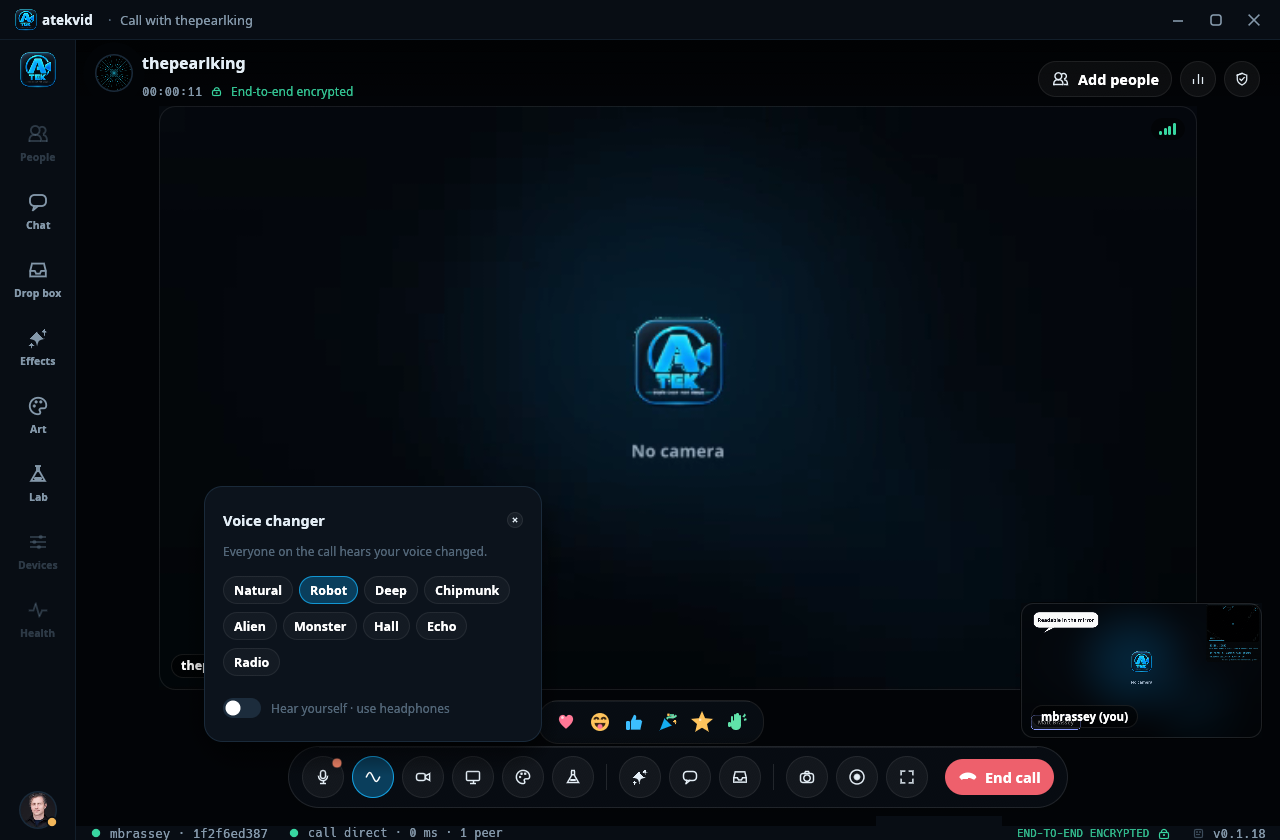
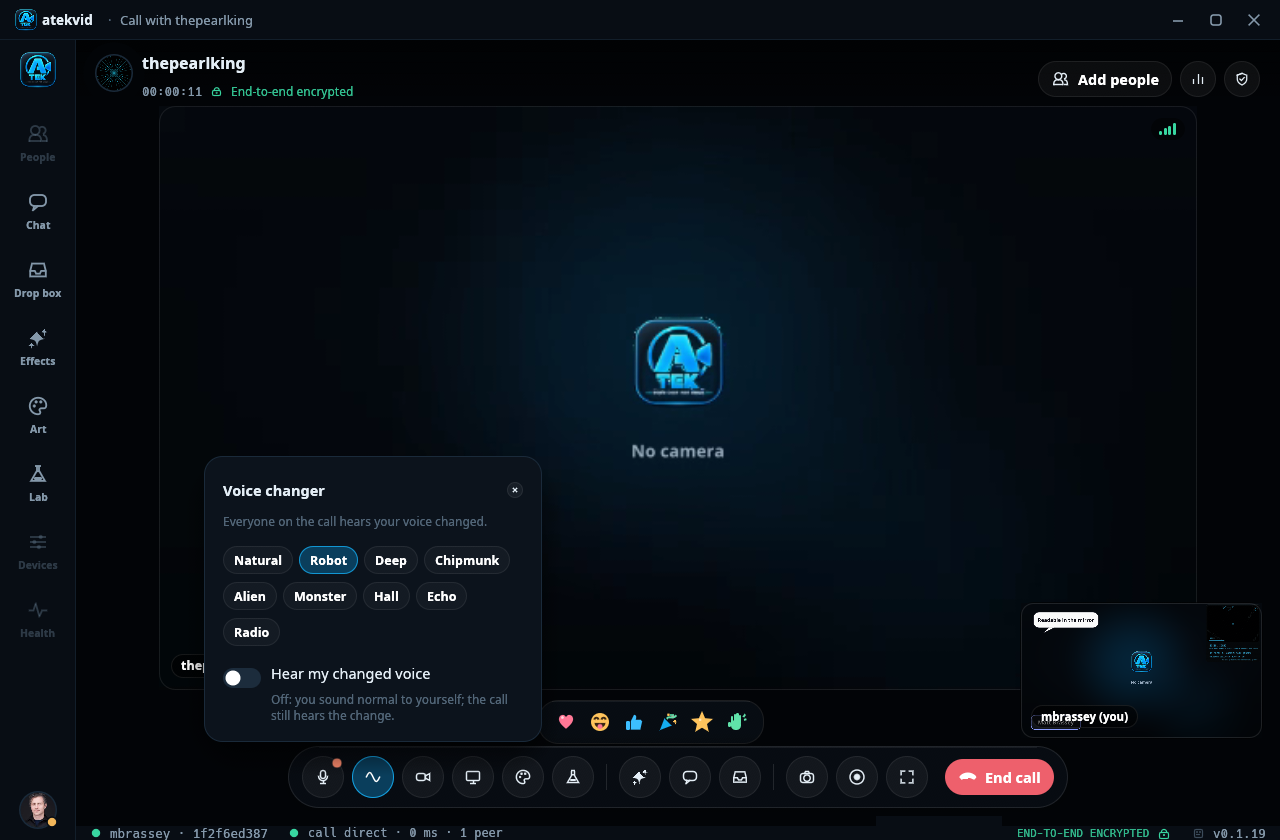
atekvid 0.1.20: hear your changed voice or not, and ten racks kept by name

Changed region(s): [[0.1562, 0.5571, 0.4062, 0.8667]]

diff --git a/README.md b/README.md
@@ -114,7 +114,8 @@ by hand.
   hold, a sixteen-step sequencer, keys, looper, delay, reverb, wavefolder,
   chorus, mixer, scope, output) patched with cables between colour-coded
   sockets, with knobs to turn, ten starting racks to begin from (four of them voices), a spectrum
-  analyser and an oscilloscope along the bottom, and racks kept by name.
+  analyser and an oscilloscope along the bottom, and up to ten racks of your
+  own kept by name.
   The rack zooms in and out (Ctrl and the wheel, a pinch, or the buttons in
   its corner) and fits every module on screen with a double-click.
   *Only me* plays it on your speakers; *Everyone* mixes it into what the call
@@ -124,9 +125,14 @@ by hand.
 - **Voice changer.** Nine voices (natural, robot, deep, chipmunk, alien,
   monster, hall, echo, radio) applied to your microphone before it is sent,
   so everyone on the call hears the changed voice, with no delay added.
-  It is on the call bar (the wave button) and in the Effects panel, with a
-  hear-yourself switch for trying a voice on headphones. The mute button
-  wears a small mark while your voice is changed.
+  It is on the call bar (the wave button) and in the Effects panel. *Hear my
+  changed voice* lets you hear yourself the way the call does (use
+  headphones), or leave it off and sound normal to yourself while everyone
+  else hears the change. The choice is remembered, and the Lab has the same
+  switch while a rack is changing your voice, so a voice rack such as
+  Cathedral (Voice in through a hall reverb) works as a voice changer on its
+  own, in a call or not. The mute button wears a small mark while your voice
+  is changed.
 - **Ringtones.** Twelve tunes made by atekvid itself: bells, an old phone,
   the opening of Mozart's *Eine kleine Nachtmusik*, hip hop, trap, drum and
   bass, techno, EDM, dubstep, synthwave, chiptune and an alien theremin.
